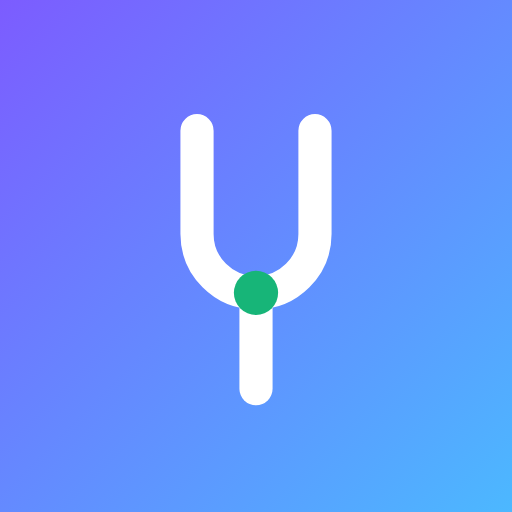
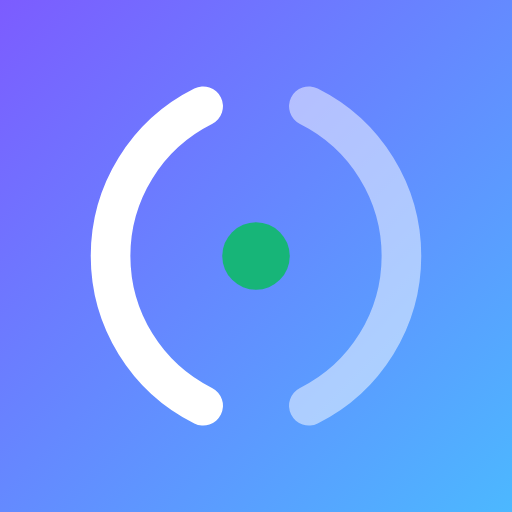
Wear Duet again, and let the mark lead the wordmark
Duet replaces Fork P everywhere the mark is drawn — the icon, the maskable
variant, the launch screen, the share image and the wordmark in the app. All
five come out of tools/icon.html, so this was one shape and a re-render.

The mark used to sit between the two words, standing in for a letter. It now
leads them. Its own viewBox carries about 0.12em of air on each side, so the
gap to the "p" is that plus a 0.3em margin — a little wider than a word space,
which is what keeps it reading as a mark rather than as a letter.

Duet keeps the tile sizing the fork was given rather than the full bleed it
had originally: it spans about 77% of its own viewBox once the stroke is
counted, which is a shade large for an icon. 86% in the tile, and 73% for the
maskable variant, which is margin rather than rescue — the arcs' endpoints
already clear Android's circle at the tile scale.

And the service worker cache moves to v3, so the icons this replaces are swept
instead of sitting in the box behind a network-first fetch.

Changed region(s): [[0.1562, 0.1562, 0.8438, 0.8438]]

diff --git a/index.html b/index.html
@@ -1576,13 +1576,16 @@
       background-clip: text;
       color: transparent;
     }
-    /* The mark stands in for a letter between the two words, so it is sized
-       from the type around it and sits on the same optical line. It paints in
-       the ink colour, not the gradient the words wear. */
+    /* The mark leads the wordmark, so it is sized from the type beside it and
+       sits on the same optical line. Its own viewBox carries about 0.12em of
+       air on each side, so the gap to the "p" is that plus the margin below —
+       a little wider than a word space, which is what keeps it reading as a
+       mark rather than a letter. It paints in the ink colour, not the gradient
+       the words wear. */
     h1 .mark, #welcome-title .mark {
       width: 1em; height: 1em;
       vertical-align: -0.14em;
-      margin: 0 0.08em;
+      margin-right: 0.3em;
       color: var(--wordmark-mark);
     }
     .welcome-lead { color: var(--muted); font-size: 0.9rem; line-height: 1.55; margin: 0.6rem 0 1.2rem; }
@@ -1703,7 +1706,7 @@
        instrument has ever been chosen, so it never flashes on a return visit. -->
   <div id="welcome" hidden>
     <div id="welcome-card" role="dialog" aria-labelledby="welcome-title" aria-modal="true">
-      <h2 id="welcome-title">practice <svg class="mark" viewBox="0 0 100 100" aria-hidden="true"><path d="M34 16 L34 44 A 16 16 0 0 0 66 44 L66 16" fill="none" stroke="currentColor" stroke-width="9" stroke-linecap="round"/><path d="M50 60 L50 86" fill="none" stroke="currentColor" stroke-width="9" stroke-linecap="round"/><circle cx="50" cy="60" r="6" fill="var(--good)"/></svg> partner</h2>
+      <h2 id="welcome-title"><svg class="mark" viewBox="0 0 100 100" aria-hidden="true"><path d="M38 16 A 38 38 0 0 0 38 84" fill="none" stroke="currentColor" stroke-width="9" stroke-linecap="round"/><path d="M62 16 A 38 38 0 0 1 62 84" fill="none" stroke="currentColor" stroke-opacity="0.45" stroke-width="9" stroke-linecap="round"/><circle cx="50" cy="50" r="7.5" fill="var(--good)"/></svg>practice partner</h2>
       <p class="welcome-lead">It listens while you practice and tells you what actually
       happened — which notes ran sharp or flat, where the tempo moved, and how cleanly
       you land after a leap.</p>
@@ -1727,7 +1730,7 @@
     </div>
   </div>
   <header>
-    <h1>practice <svg class="mark" viewBox="0 0 100 100" aria-hidden="true"><path d="M34 16 L34 44 A 16 16 0 0 0 66 44 L66 16" fill="none" stroke="currentColor" stroke-width="9" stroke-linecap="round"/><path d="M50 60 L50 86" fill="none" stroke="currentColor" stroke-width="9" stroke-linecap="round"/><circle cx="50" cy="60" r="6" fill="var(--good)"/></svg> partner</h1>
+    <h1><svg class="mark" viewBox="0 0 100 100" aria-hidden="true"><path d="M38 16 A 38 38 0 0 0 38 84" fill="none" stroke="currentColor" stroke-width="9" stroke-linecap="round"/><path d="M62 16 A 38 38 0 0 1 62 84" fill="none" stroke="currentColor" stroke-opacity="0.45" stroke-width="9" stroke-linecap="round"/><circle cx="50" cy="50" r="7.5" fill="var(--good)"/></svg>practice partner</h1>
     <button id="settings-btn" type="button" aria-label="Settings">
       <svg viewBox="0 0 24 24" fill="none" stroke="currentColor" stroke-width="1.7" stroke-linecap="round" stroke-linejoin="round">
         <path d="M12.22 2h-.44a2 2 0 0 0-2 2v.18a2 2 0 0 1-1 1.73l-.43.25a2 2 0 0 1-2 0l-.15-.08a2 2 0 0 0-2.73.73l-.22.38a2 2 0 0 0 .73 2.73l.15.1a2 2 0 0 1 1 1.72v.51a2 2 0 0 1-1 1.74l-.15.09a2 2 0 0 0-.73 2.73l.22.38a2 2 0 0 0 2.73.73l.15-.08a2 2 0 0 1 2 0l.43.25a2 2 0 0 1 1 1.73V20a2 2 0 0 0 2 2h.44a2 2 0 0 0 2-2v-.18a2 2 0 0 1 1-1.73l.43-.25a2 2 0 0 1 2 0l.15.08a2 2 0 0 0 2.73-.73l.22-.39a2 2 0 0 0-.73-2.73l-.15-.08a2 2 0 0 1-1-1.74v-.5a2 2 0 0 1 1-1.74l.15-.09a2 2 0 0 0 .73-2.73l-.22-.38a2 2 0 0 0-2.73-.73l-.15.08a2 2 0 0 1-2 0l-.43-.25a2 2 0 0 1-1-1.73V4a2 2 0 0 0-2-2z" />

diff --git a/tools/icon.html b/tools/icon.html
@@ -28,15 +28,16 @@
     place-items: center;
     color: #fff;   /* the mark paints in currentColor; splash overrides it */
   }
+  /* Duet spans about 77% of its own viewBox once the stroke is counted, which
+     is a shade large for a tile — art at roughly two thirds of the square is
+     what the icons beside it on a home screen do. */
+  body[data-v="icon"] .gauge { transform: scale(0.86); }
   /* Android crops to a circle inscribed in the square, so the mark has to sit
-     inside the inner 80% or its edges are cut on a Pixel. The mark is only
-     about 59% of its own viewBox wide to begin with and clears that circle
-     almost unscaled; 0.85 keeps a margin without shrinking it to a dot. */
-  /* The fork runs nearly the full height of its own viewBox, which is too much
-     of an icon tile — it reads as a sticker rather than an app icon. Art at
-     roughly half the square is what the tiles around it on a home screen do. */
-  body[data-v="icon"] .gauge { transform: scale(0.72); }
-  body[data-v="maskable"] .gauge { transform: scale(0.62); }
+     inside the inner 80% — a radius of 120 — or its edges are cut on a Pixel.
+     The arcs' endpoints are the far corners of the shape and land at 105 once
+     the tile scale above is applied, so the icon already clears it; the further
+     15% here is margin against the phones that crop harder than a circle. */
+  body[data-v="maskable"] .gauge { transform: scale(0.73); }
 
   /* The launch screen is not a billboard — it is the app's first frame drawn a
      moment early, so it wears the app's own background and shows the mark at
@@ -69,15 +70,16 @@
 </head>
 <body>
   <div class="tile">
-    <!-- Fork P: a tuning fork whose prongs close into the bowl of a P, with the
-         green centre the rest of the app uses for "in tune" sitting where the
-         stem begins. -->
+    <!-- Duet: two arcs turned toward each other, meeting on the note they
+         agree about. One of them is you and one is the thing listening — the
+         only mark of the six that would not have suited a plain tuner, which
+         is the whole reason the app has a different name now. -->
     <svg class="gauge" viewBox="0 0 300 300" width="512" height="512" aria-hidden="true">
-      <path d="M102 48 L102 132 A 48 48 0 0 0 198 132 L198 48" fill="none"
+      <path d="M114 48 A 114 114 0 0 0 114 252" fill="none"
             stroke="currentColor" stroke-width="27" stroke-linecap="round" />
-      <path d="M150 180 L150 258" fill="none"
-            stroke="currentColor" stroke-width="27" stroke-linecap="round" />
-      <circle cx="150" cy="180" r="18" fill="#17b578" />
+      <path d="M186 48 A 114 114 0 0 1 186 252" fill="none"
+            stroke="currentColor" stroke-opacity="0.5" stroke-width="27" stroke-linecap="round" />
+      <circle cx="150" cy="150" r="23" fill="#17b578" />
     </svg>
     <div class="words" hidden>
       <h1>Practice Partner</h1>

diff --git a/public/sw.js b/public/sw.js
@@ -4,7 +4,7 @@
 // Bump this on a release. It has to actually change for the activate handler
 // to delete anything — pinned at one value it swept nothing, and every dead
 // asset from every past deploy stayed in the box forever.
-const CACHE = 'music-companion-v2';
+const CACHE = 'music-companion-v3';
 
 self.addEventListener('install', () => self.skipWaiting());
 
